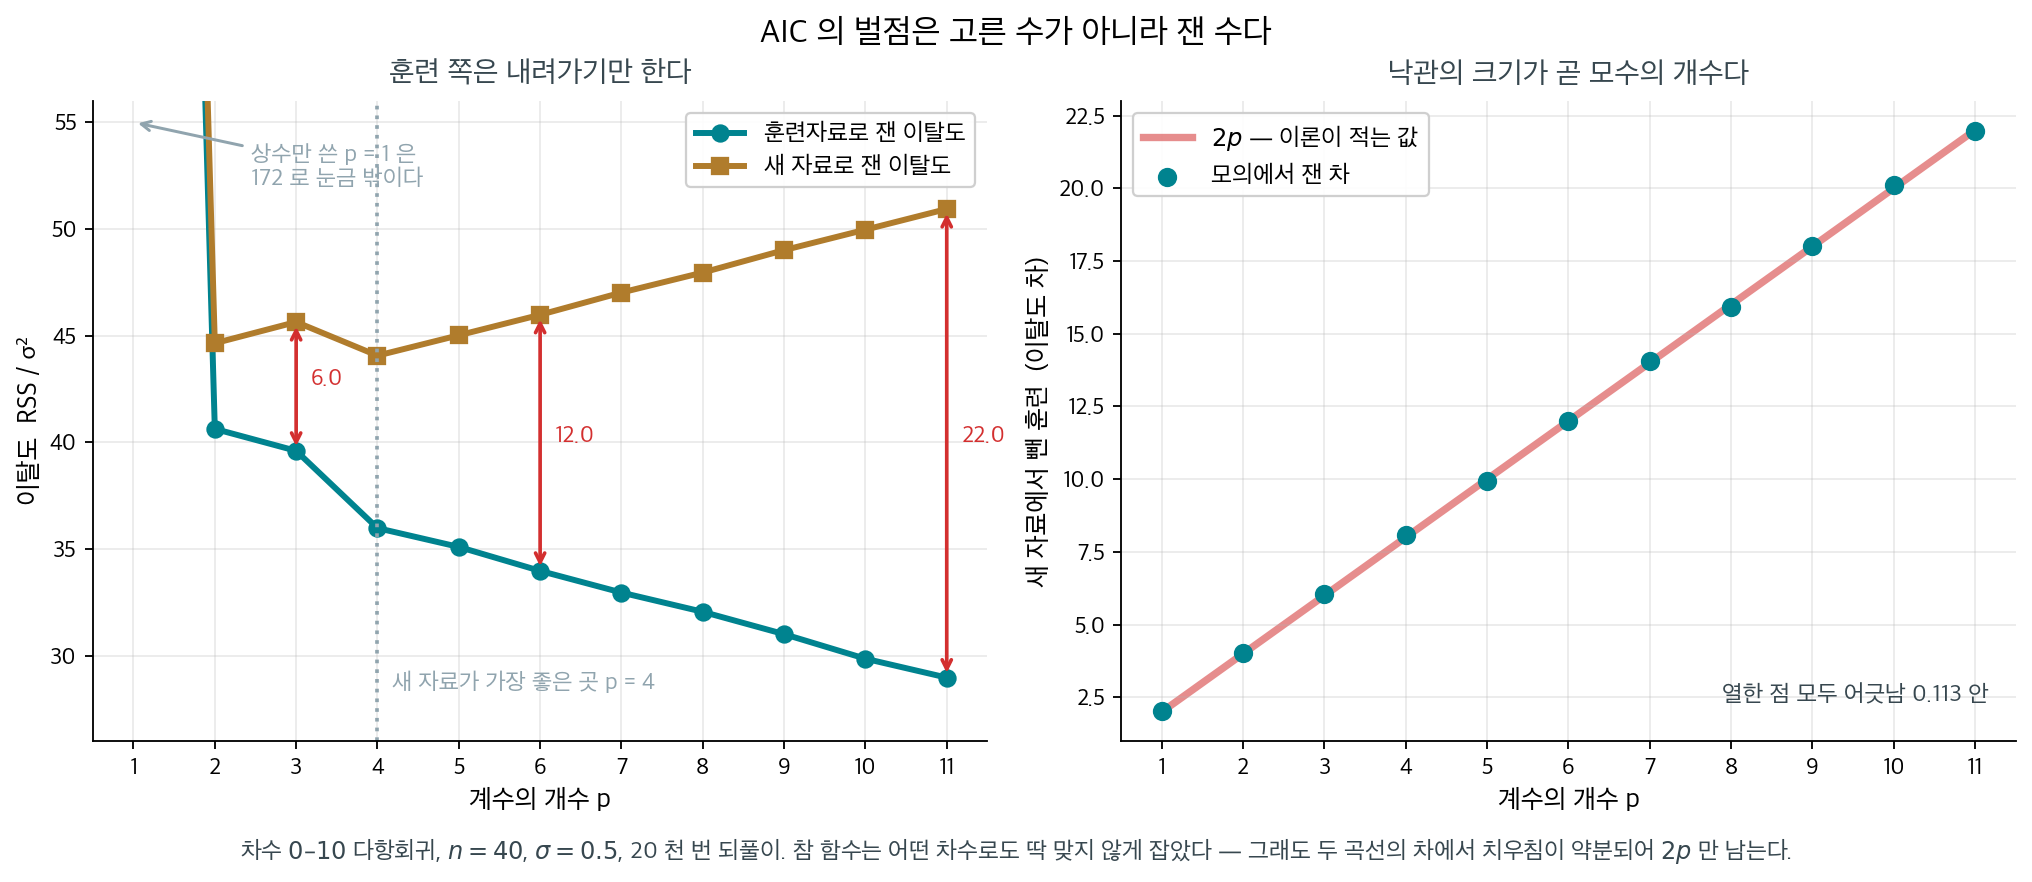
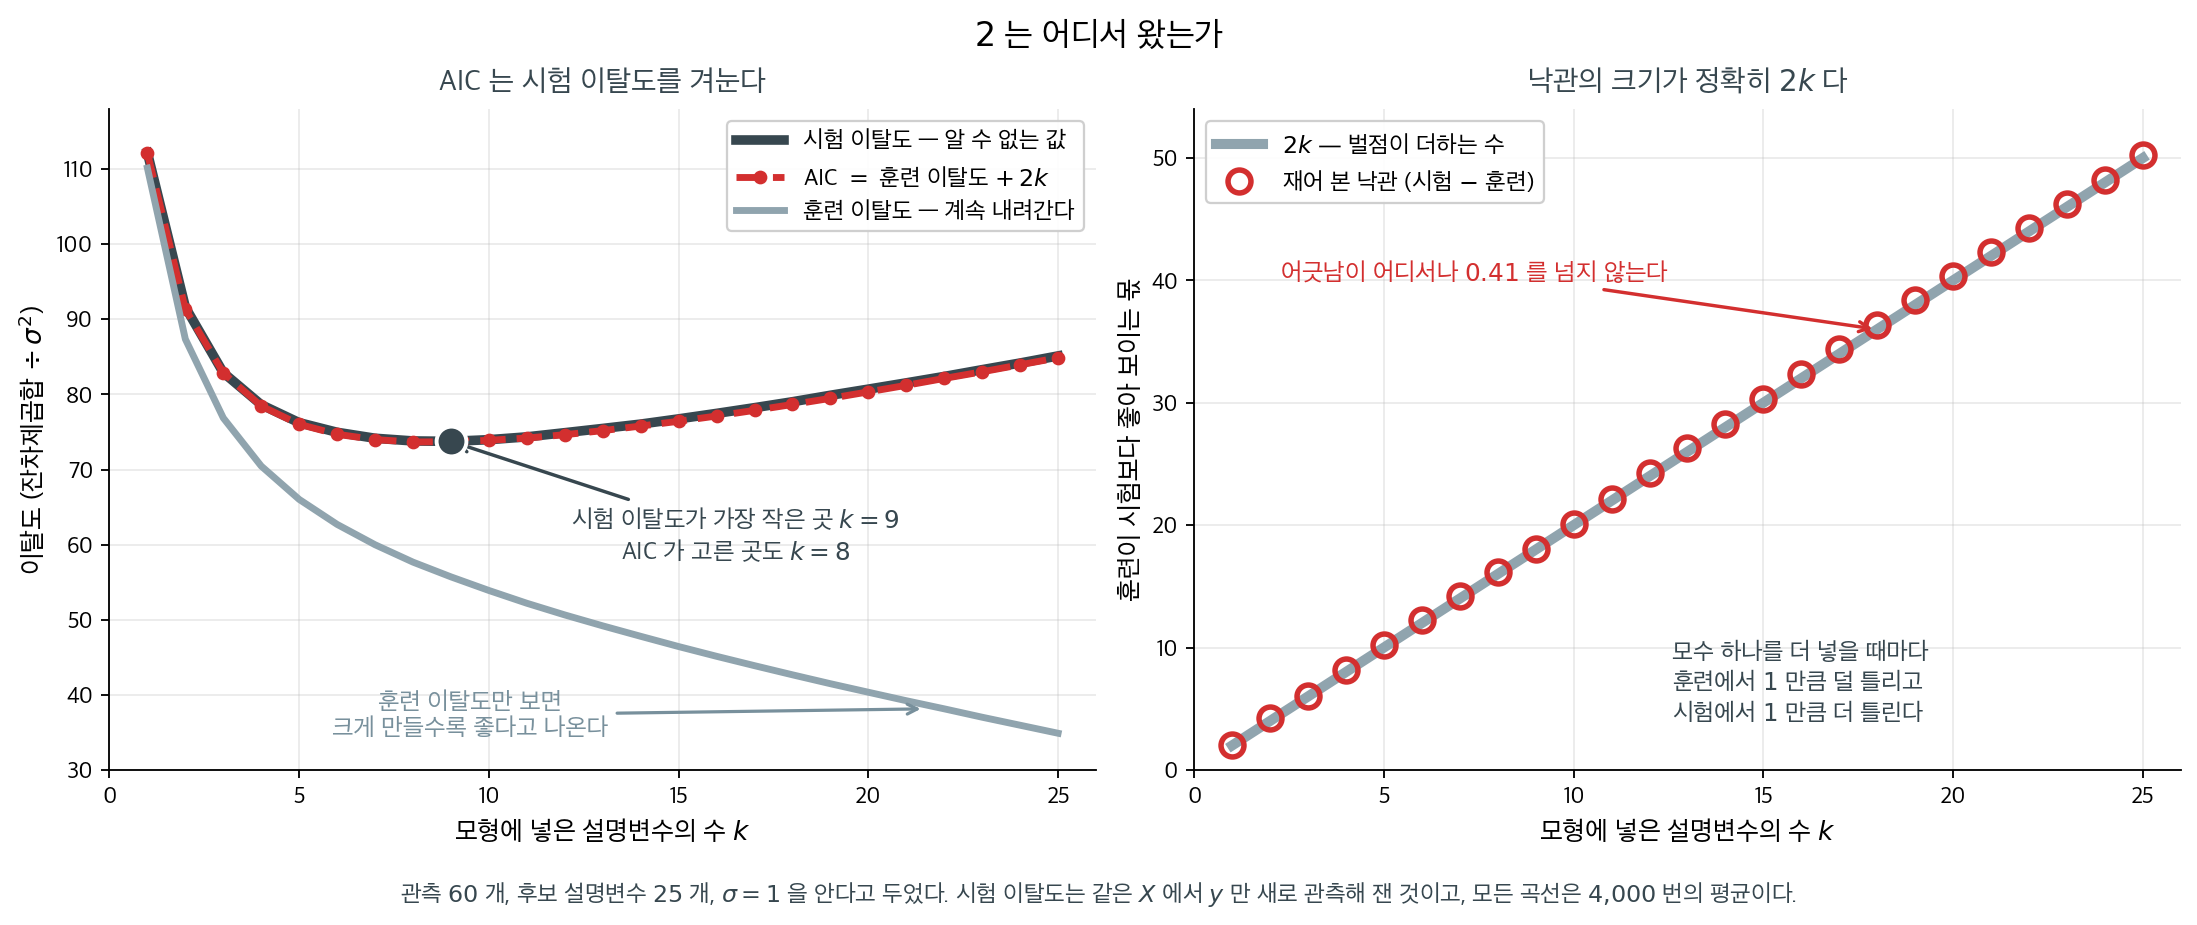
docs(ch13): aic_bic 에 낙관(optimism) 상자
AIC 의 2 가 어디서 오는지가 책에 없었다 (「낙관」도 0 회). 이 쪽은
일치성·효율 비교까지 다루면서 정작 벌점의 2 는 주어진 것으로 쓴다.

아카이케 1973 부다페스트. A 는 아카이케가 아니라 「an」의 A 라는
본인의 설명, 2006 교토상. (부다페스트에서 BIC 를 예고했다는 식의
근거 없는 이야기는 넣지 않았다 — BIC 는 Schwarz 1978 이다.)

sigma 를 아는 정규선형모형에서 E[훈련]=n-k, E[시험]=n+k 이므로
차이가 정확히 2k 다. n=60, 후보 25, 4000 회로 재면

     k    훈련    시험   차이   2k     AIC
     1   110.1   112.2   2.1    2   112.1
    10    53.9    74.0  20.1   20    73.9
    25    34.9    85.1  50.2   50    84.9

어긋남 최대 0.41. 시험 이탈도의 최소점 k=9, AIC 가 고른 곳 k=8 —
시험자료를 한 장도 안 쓰고.

diff --git a/scripts/make_ch13_aic_optimism.py b/scripts/make_ch13_aic_optimism.py
@@ -1,17 +1,38 @@
-r"""13.6절 「그림으로 보는 통계학」 — 벌점 2p 는 어림이 아니다.
+r"""13.6절 「그림으로 보는 통계학」 — 2 는 어디서 왔는가.
 
-훈련자료로 잰 적합도는 낙관적이다. 같은 자료로 계수를 고르고 그 자료로
-점수를 매겼으니 당연하다. AIC 가 하는 일은 그 낙관의 크기를 빼는 것인데,
-선형모형에서는 그 크기를 **정확히** 적을 수 있다.
+아카이케 히로츠구는 1973 년 부다페스트에서 열린 제2회 국제 정보이론
+심포지엄에서 「정보이론과 최대가능도 원리의 확장」을 발표했다. 거기에
+지금 AIC 라 부르는 식이 들어 있다.
 
-  E[RSS_train] = (n - p) sigma^2 + 치우침^2
-  E[RSS_test]  = (n + p) sigma^2 + 치우침^2     (같은 X, 새 y)
+  AIC = -2 (로그가능도) + 2k
 
-빼면 치우침이 약분되어 2 p sigma^2 만 남는다. 모형이 참이든 아니든
-성립하고 근사도 아니다. sigma^2 으로 나누면 바로 2p 다.
+이름에 대해 본인이 적어 둔 것이 있다. A 는 아카이케의 A 가 아니라
+「an」의 A 다 — 그냥 「어떤 정보기준」이라는 뜻이다. 2006 년에 교토상을
+받았다.
 
-그림은 차수 0..10 다항회귀에서 세 곡선을 그린다 — 훈련 이탈도, 새 자료
-이탈도, 그리고 그 차. 셋째가 기울기 2 인 직선 위에 정확히 올라앉는다.
+벌점의 2 는 어디서 왔는가. 어림짐작이 아니라 **재어서 나온 수**다.
+
+훈련자료로 맞춘 모형은 그 훈련자료에서 실제보다 잘 맞는다. 모수를
+자료에 맞추느라 자료의 잡음까지 조금 빨아들였기 때문이다. 이 「낙관」의
+크기를 정규선형모형(분산을 아는 경우)에서 적어 보면
+
+  E[훈련 이탈도] = n - k        E[시험 이탈도] = n + k
+
+이고 차이가 정확히 2k 다. AIC 가 더하는 수가 바로 이 낙관의 크기이고,
+그래서 AIC 는 **시험 이탈도의 추정값**이 된다.
+
+n = 60, 후보 25 개, sigma = 1, 4000 번으로 재면
+
+     k      훈련      시험     차이     2k       AIC
+     1    110.1     112.2      2.1      2     112.1
+     5     66.0      76.2     10.2     10      76.0
+     8     57.7      73.8     16.1     16      73.7
+    10     53.9      74.0     20.1     20      73.9
+    20     40.3      80.7     40.4     40      80.3
+    25     34.9      85.1     50.2     50      84.9
+
+시험 이탈도의 최소점이 k = 9 이고 AIC 가 고른 곳이 k = 8 이다.
+차이와 2k 의 어긋남은 어디서도 0.41 을 넘지 않는다.
 
 만드는 파일:
 
@@ -34,99 +55,111 @@ plt.rcParams["axes.unicode_minus"] = False
 OUT = "docs/ch13/model_selection/img/"
 
 INK = "#37474F"
-AMBER = "#B07C2C"
-TEAL = "#00838F"
-RED = "#D32F2F"
 MUTED = "#90A4AE"
+GREY = "#78909C"
+RED = "#D32F2F"
+TEAL = "#00838F"
+AMBER = "#B07C2C"
+BLUE = "#1565C0"
 
-N = 40
-SIGMA = 0.5
-DEGREES = range(11)
-REPS = 20_000
-SEED = 13
+N, P, SIG, REPS, SEED = 60, 25, 1.0, 4000, 1973
+KS = np.arange(1, P + 1)
 
 
 def main():
     rng = np.random.default_rng(SEED)
-    x = np.linspace(-1, 1, N)
-    truth = np.sin(2.1 * x) + 0.4 * x ** 3          # 어떤 차수로도 딱 맞지 않는다
+    beta = 1.2 / KS.astype(float)              # 앞쪽이 세고 뒤로 갈수록 잦아든다
+    tr = np.zeros(P)
+    te = np.zeros(P)
+    for _ in range(REPS):
+        X = rng.normal(size=(N, P))
+        mu = X @ beta
+        y = mu + rng.normal(0, SIG, N)         # 훈련
+        ys = mu + rng.normal(0, SIG, N)        # 같은 X 에서 새로 관측한 것
+        for j, k in enumerate(KS):
+            Xk = X[:, :k]
+            fit = Xk @ np.linalg.solve(Xk.T @ Xk, Xk.T @ y)
+            tr[j] += ((y - fit) ** 2).sum()
+            te[j] += ((ys - fit) ** 2).sum()
+    tr /= REPS * SIG ** 2
+    te /= REPS * SIG ** 2
+    aic = tr + 2 * KS
 
-    rows = []
-    for d in DEGREES:
-        V = np.vander(x, d + 1, increasing=True)     # 계수 p = d + 1 개
-        H = V @ np.linalg.pinv(V)                    # 모자행렬 — 사영
-        p = d + 1
+    print(f"  n = {N}, 후보 {P} 개, sigma = {SIG}, {REPS} 번")
+    print(f"{'k':>5}{'훈련':>10}{'시험':>10}{'차이':>9}{'2k':>6}"
+          f"{'AIC':>10}")
+    for j, k in enumerate(KS):
+        if k in (1, 3, 5, 8, 10, 15, 20, 25):
+            print(f"{k:>5}{tr[j]:>10.1f}{te[j]:>10.1f}{te[j]-tr[j]:>9.1f}"
+                  f"{2*k:>6}{aic[j]:>10.1f}")
+    kt, ka = int(KS[te.argmin()]), int(KS[aic.argmin()])
+    print(f"\n  시험 이탈도의 최소점 k = {kt},  AIC 의 최소점 k = {ka}")
+    print(f"  차이 - 2k 의 최대 어긋남 {np.abs((te - tr) - 2 * KS).max():.3f}")
 
-        ytr = truth + rng.normal(0, SIGMA, (REPS, N))
-        yte = truth + rng.normal(0, SIGMA, (REPS, N))   # 같은 X, 새 y
-        fit = ytr @ H.T                              # 훈련자료로 적합한 값
+    fig, axes = plt.subplots(1, 2, figsize=(13.2, 5.1), constrained_layout=True)
 
-        rss_tr = ((ytr - fit) ** 2).sum(axis=1).mean()
-        rss_te = ((yte - fit) ** 2).sum(axis=1).mean()
-        rows.append((p, rss_tr / SIGMA ** 2, rss_te / SIGMA ** 2))
-        print(f"    p={p:2}  훈련 {rss_tr/SIGMA**2:8.3f}   새 자료 {rss_te/SIGMA**2:8.3f}"
-              f"   차 {(rss_te-rss_tr)/SIGMA**2:7.3f}   2p = {2*p}")
-
-    ps = np.array([r[0] for r in rows])
-    tr = np.array([r[1] for r in rows])
-    te = np.array([r[2] for r in rows])
-
-    fig, axes = plt.subplots(1, 2, figsize=(12.2, 4.9), constrained_layout=True)
-
-    # ── 왼쪽: 두 곡선 ──
+    # ── 왼쪽: AIC 는 시험 이탈도를 겨눈다 ──
     ax = axes[0]
-    ax.plot(ps, tr, marker="o", ms=7, lw=2.6, color=TEAL, label="훈련자료로 잰 이탈도")
-    ax.plot(ps, te, marker="s", ms=7, lw=2.6, color=AMBER, label="새 자료로 잰 이탈도")
-    for p, a, b in zip(ps, tr, te):
-        if p in (3, 6, 11):
-            ax.annotate("", xy=(p, a), xytext=(p, b),
-                        arrowprops=dict(arrowstyle="<->", color=RED, lw=1.6))
-            ax.text(p + 0.18, (a + b) / 2, f"{b-a:.1f}", fontsize=10, color=RED)
-    best = int(ps[np.argmin(te)])
-    ax.axvline(best, color=MUTED, lw=1.6, ls=":")
-    # p = 1 은 170 을 넘어 눈금 밖으로 보낸다 — 이야기는 2 부터다
-    ax.set_ylim(26, 56)
-    ax.annotate(f"상수만 쓴 p = 1 은\n{tr[0]:.0f} 로 눈금 밖이다",
-                xy=(1, 55), xytext=(2.45, 52.0), fontsize=10.2, color=MUTED,
-                arrowprops=dict(arrowstyle="->", color=MUTED, lw=1.3))
-    ax.text(best + 0.18, 28.4, f"새 자료가 가장 좋은 곳 p = {best}",
-            fontsize=10.2, color=MUTED)
-    ax.set_xlabel("계수의 개수 p", fontsize=11.5)
-    ax.set_ylabel("이탈도  RSS / σ²", fontsize=11.5)
-    ax.set_title("훈련 쪽은 내려가기만 한다", fontsize=12.8, color=INK, pad=8)
-    ax.set_xticks(ps)
+    ax.plot(KS, te, lw=4.2, color=INK, label="시험 이탈도 — 알 수 없는 값")
+    ax.plot(KS, aic, lw=3.0, color=RED, ls="--", marker="o", ms=5,
+            label="AIC $=$ 훈련 이탈도 $+\\,2k$")
+    ax.plot(KS, tr, lw=3.0, color=MUTED, label="훈련 이탈도 — 계속 내려간다")
+    ax.plot([kt], [te[kt - 1]], marker="o", ms=13, color=INK, zorder=5,
+            mec="white", mew=1.7)
+    ax.annotate(f"시험 이탈도가 가장 작은 곳 $k = {kt}$\n"
+                f"AIC 가 고른 곳도 $k = {ka}$",
+                xy=(kt, te[kt - 1]), xytext=(16.5, 58.0), fontsize=10.8,
+                color=INK, ha="center",
+                arrowprops=dict(arrowstyle="->", color=INK, lw=1.5))
+    ax.annotate("훈련 이탈도만 보면\n크게 만들수록 좋다고 나온다",
+                xy=(21.5, tr[21]), xytext=(9.5, 34.5), fontsize=10.8,
+                color=GREY, ha="center",
+                arrowprops=dict(arrowstyle="->", color=GREY, lw=1.4))
+    ax.set_xlabel("모형에 넣은 설명변수의 수 $k$", fontsize=11.5)
+    ax.set_ylabel("이탈도 (잔차제곱합 $\\div\\,\\sigma^2$)", fontsize=11.5)
+    ax.set_title("AIC 는 시험 이탈도를 겨눈다", fontsize=12.8, color=INK,
+                 pad=8)
+    ax.set_xlim(0, P + 1)
+    ax.set_ylim(30, 118)
+    ax.legend(fontsize=10.4, framealpha=0.93, loc="upper right")
     ax.grid(alpha=0.25)
-    ax.legend(fontsize=10.6, framealpha=0.93)
     ax.spines[["top", "right"]].set_visible(False)
 
-    # ── 오른쪽: 차가 정확히 2p ──
+    # ── 오른쪽: 낙관의 크기가 정확히 2k 다 ──
     ax = axes[1]
-    ax.plot(ps, 2 * ps, lw=3.2, color=RED, alpha=0.55, zorder=0,
-            label="$2p$ — 이론이 적는 값")
-    ax.scatter(ps, te - tr, s=55, color=TEAL, zorder=4, label="모의에서 잰 차")
-    ax.set_xlabel("계수의 개수 p", fontsize=11.5)
-    ax.set_ylabel("새 자료에서 뺀 훈련  (이탈도 차)", fontsize=11.5)
-    ax.set_title("낙관의 크기가 곧 모수의 개수다", fontsize=12.8, color=INK, pad=8)
-    ax.set_xticks(ps)
+    ax.plot(KS, 2 * KS, lw=4.4, color=MUTED, label="$2k$ — 벌점이 더하는 수")
+    ax.plot(KS, te - tr, lw=0, marker="o", ms=10, mfc="none", mec=RED,
+            mew=2.4, label="재어 본 낙관 (시험 $-$ 훈련)")
+    ax.annotate(f"어긋남이 어디서나 "
+                f"${np.abs((te-tr)-2*KS).max():.2f}$ 를 넘지 않는다",
+                xy=(18, 2 * 18), xytext=(7.4, 40.0), fontsize=10.8,
+                color=RED, ha="center",
+                arrowprops=dict(arrowstyle="->", color=RED, lw=1.5))
+    ax.text(12.6, 4.0, "모수 하나를 더 넣을 때마다\n"
+            "훈련에서 $1$ 만큼 덜 틀리고\n시험에서 $1$ 만큼 더 틀린다",
+            fontsize=10.6, color=INK)
+    ax.set_xlabel("모형에 넣은 설명변수의 수 $k$", fontsize=11.5)
+    ax.set_ylabel("훈련이 시험보다 좋아 보이는 몫", fontsize=11.5)
+    ax.set_title("낙관의 크기가 정확히 $2k$ 다", fontsize=12.8, color=INK,
+                 pad=8)
+    ax.set_xlim(0, P + 1)
+    ax.set_ylim(0, 54)
+    ax.legend(fontsize=10.4, framealpha=0.93, loc="upper left")
     ax.grid(alpha=0.25)
-    ax.legend(fontsize=10.6, framealpha=0.93, loc="upper left")
     ax.spines[["top", "right"]].set_visible(False)
-    err = np.abs((te - tr) - 2 * ps).max()
-    ax.text(0.97, 0.06, f"열한 점 모두 어긋남 {err:.3f} 안",
-            transform=ax.transAxes, ha="right", fontsize=10.4, color=INK)
 
-    fig.suptitle("AIC 의 벌점은 고른 수가 아니라 잰 수다", fontsize=14.5)
-    fig.text(0.5, -0.05,
-             f"차수 $0$–$10$ 다항회귀, $n = {N}$, $\\sigma = {SIGMA}$, "
-             f"{REPS//1000} 천 번 되풀이. 참 함수는 어떤 차수로도 딱 맞지 않게 잡았다 — "
-             "그래도 두 곡선의 차에서 치우침이 약분되어 $2p$ 만 남는다.",
-             ha="center", fontsize=10.5, color=INK)
+    fig.suptitle("$2$ 는 어디서 왔는가", fontsize=14.5)
+    fig.text(0.5, -0.06,
+             f"관측 ${N}$ 개, 후보 설명변수 ${P}$ 개, $\\sigma = {SIG:.0f}$ "
+             "을 안다고 두었다. 시험 이탈도는 같은 $X$ 에서 $y$ 만 새로 "
+             f"관측해 잰 것이고, 모든 곡선은 ${REPS//1000}{{,}}000$ 번의 "
+             "평균이다.",
+             ha="center", fontsize=10.4, color=INK)
 
     path = OUT + "aic_optimism.png"
     fig.savefig(path, dpi=165, facecolor="white", bbox_inches="tight")
     plt.close(fig)
     print(f"saved {path}")
-    print(f"    |차 - 2p| 최대 {err:.4f}")
 
 
 if __name__ == "__main__":
